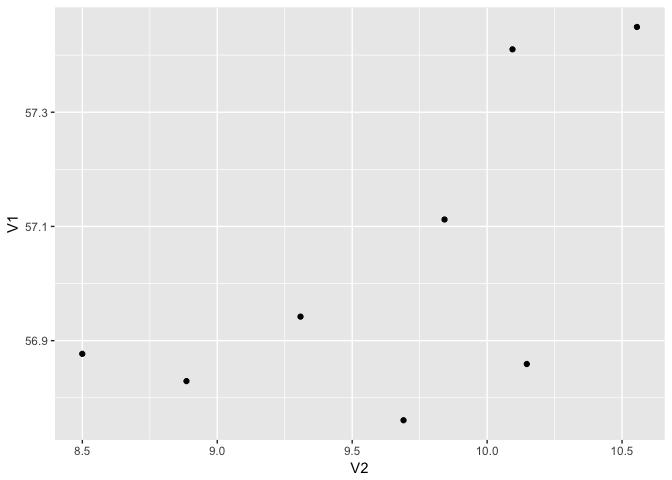
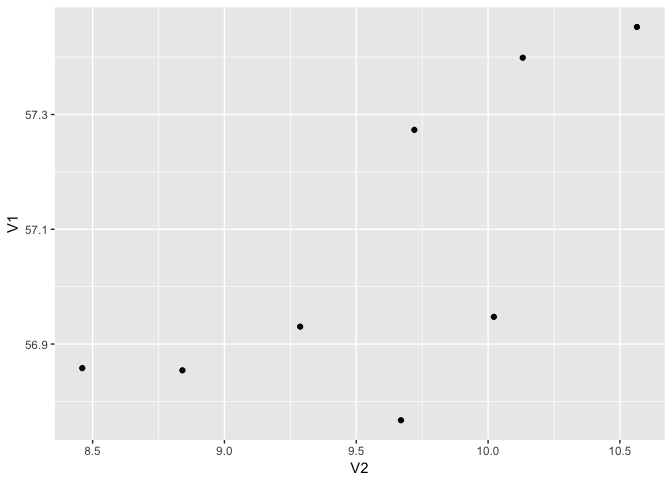
Atualizando Documentação

diff --git a/kmeans/scala-wrapper.md b/kmeans/scala-wrapper.md
@@ -4,18 +4,222 @@ João Antonio Ferreira
 15 de janeiro de 2017
 
 -   [R Markdown](#r-markdown)
--   [Preparação do ambiente](#preparacao-do-ambiente)
+-   [Gerando um Dataset no formato desejado](#gerando-um-dataset-no-formato-desejado)
+-   [Preparação do ambiente R](#preparacao-do-ambiente-r)
     -   [Lendo o Dataset](#lendo-o-dataset)
     -   [Investigando no grafico](#investigando-no-grafico)
     -   [Rodando o KMeans para k = 8](#rodando-o-kmeans-para-k-8)
+    -   [Código KMeans equivalente em Scala](#codigo-kmeans-equivalente-em-scala)
 
 R Markdown
 ----------
 
 Este é um documento R Markdown. Markdown é um formato simples para gerar documentos HTML, DOCX e PDF.
 
-Preparação do ambiente
-----------------------
+R Markdown é uma extensão para Markdown que acrescenta funcionalidade de execução de código R gerando saida Markdown que pode ser lida no Github.
+
+Gerando um Dataset no formato desejado
+--------------------------------------
+
+Inicialmente configuro o Environment para usar o spark-shell
+
+``` bash
+export  SPARK_MASTER_IP=127.0.0.1
+export  SPARK_LOCAL_IP=127.0.0.1
+spark-shell
+```
+
+Partindo do dataset original vamos inserir 130.299 registros com pelo menos um atributo null e gerar mais registros usando operação map do Dataset do Spark. O Dataset original é 3D\_spatial\_network.csv
+
+Fazendo os imports necessários.
+
+``` scala
+import collection.JavaConversions._
+import java.io.File
+import java.nio.file.Files
+import java.nio.file.Paths
+import java.util.Arrays
+import org.apache.spark.ml.clustering.KMeans
+import org.apache.spark.ml.feature.{VectorAssembler,StringIndexer,VectorIndexer,OneHotEncoder}
+import org.apache.spark.ml.linalg.Vectors
+import org.apache.spark.sql.Dataset
+import org.apache.spark.sql.Encoder
+import org.apache.spark.sql.Encoders
+import org.apache.spark.sql.Row
+import org.apache.spark.sql.SparkSession
+import org.apache.spark.sql.types._
+import org.apache.spark.sql.types.StructType
+import spark.implicits._
+```
+
+``` scala
+// utility function
+def deleteRecursively(file: File): Unit = {
+  if (file.isDirectory) {
+    file.listFiles.foreach(deleteRecursively)
+  }
+  if (file.exists && !file.delete)
+    throw new Exception(s"Unable to delete ${file.getAbsolutePath}")
+}
+
+val sparkSession = SparkSession.builder.
+    appName("spark session example").
+    getOrCreate()
+
+val df = sparkSession.read.
+          option("header","true").
+          option("inferSchema","true").
+          csv("3D_spatial_network.csv")
+
+val sortedSet = df.sort("id", "latitude", "longitude", "altitude").collect()
+// sortedSet é um Array[org.apache.spark.sql.Row]
+
+val cachedDF = df.cache()
+
+val fullRDD = sparkSession.sparkContext.parallelize(sortedSet)
+
+val dfSchema = df.schema
+
+// Criando classe para o Pattern ValueObject.
+// No caso dos parametros puderem ser nulos usamos Option[Tipo]
+case class RoadNet(id: Option[Integer], longitude: Option[Double],
+                   latitude: Option[Double], altitude: Option[Double])
+
+df.count()
+// res2: Long = 434874
+
+val fullDataframe = sparkSession.createDataFrame(fullRDD, dfSchema)
+val Array(pf1, pf2) = fullDataframe.randomSplit(Array(0.70, 0.30))
+pf2.count
+// res3: Long = 130299
+
+def returnDatasetWhichAllTuplesContainsOneAttributeNull(dsInput: Dataset[Row]) : Dataset[RoadNet] = {
+  val allTuplesContainsNull = pf2.map(row => {
+    val r = scala.util.Random
+    val index = r.nextInt(4)
+    def nullOneValue(i: Int): RoadNet = i match {
+      case 0 => RoadNet(None,
+          Option(row(1).asInstanceOf[Double]),
+          Option(row(2).asInstanceOf[Double]),
+          Option(row(3).asInstanceOf[Double])
+      )
+      case 1 => RoadNet(Option(row(0).asInstanceOf[Integer]),
+          None,
+          Option(row(2).asInstanceOf[Double]),
+          Option(row(3).asInstanceOf[Double])
+      )
+      case 2 => RoadNet(Option(row(0).asInstanceOf[Integer]),
+          Option(row(1).asInstanceOf[Double]),
+          None,
+          Option(row(3).asInstanceOf[Double])
+      )
+      case _ => RoadNet(Option(row(0).asInstanceOf[Integer]),
+          Option(row(1).asInstanceOf[Double]),
+          Option(row(2).asInstanceOf[Double]),
+          None
+      )
+    }
+    nullOneValue(index)
+  })
+  allTuplesContainsNull
+  // allTuplesContainsNull: org.apache.spark.sql.Dataset[RoadNet] = [id: int, longitude: double, latitude: double, altitude: double]
+}
+
+val dataSetWhichAllTuplesContainsNull = returnDatasetWhichAllTuplesContainsOneAttributeNull(pf2)
+dataSetWhichAllTuplesContainsNull.show
+dataSetWhichAllTuplesContainsNull.count()
+// Long = 130245
+
+val dfSchema = df.schema
+val Array(ps1, ps2) = smallDataframe.randomSplit(Array(0.80, 0.20))
+
+val myList: java.util.List[String] = Arrays.asList("hello", "world")
+val namesColl: java.util.Collection[String] = myList.toSeq
+sparkSession.sparkContext.parallelize(myList)
+val outputDir = "output"
+if (Files.exists(Paths.get(outputDir))) {
+  println("Diretório de saida já existe. Removendo diretório '" + outputDir + "'  ...")
+  deleteRecursively(new File(outputDir))
+}
+myUnion.toJavaRDD.saveAsTextFile(outputDir)
+// Gerando vários um único arquivo CSV no diretório /data/output-coalesce
+val outputDir = "/data/output-coalesce"
+if (Files.exists(Paths.get(outputDir))) {
+  println("Diretório de saida já existe. Removendo diretório '" + outputDir + "'  ...")
+  deleteRecursively(new File(outputDir))
+}
+myUnion.coalesce(1).write.format("com.databricks.spark.csv").option("header", "true").save(outputDir)
+// Aumentando o tamanho da saida
+
+def returnDatasetWhichRadomNoise(dsInput: Dataset[Row]) : Dataset[RoadNet] = {
+  val datasetWithNoise = dsInput.map(row => {
+    val r = scala.util.Random
+    val index = r.nextInt(99)
+    val signal: Int = if (index % 2 == 0) -1 else 1
+    var noise = signal * index * 1E-15
+    var drive = index % 3
+    def addNoise(i: Int): RoadNet = i match {
+      case 0 => RoadNet(
+          Option(row(0).asInstanceOf[Integer]),
+          Option(row(1).asInstanceOf[Double] + noise),
+          Option(row(2).asInstanceOf[Double]),
+          Option(row(3).asInstanceOf[Double])
+      )
+      case 1 => RoadNet(
+          Option(row(0).asInstanceOf[Integer]),
+          Option(row(1).asInstanceOf[Double]),
+          Option(row(2).asInstanceOf[Double] + noise),
+          Option(row(3).asInstanceOf[Double])
+      )
+      case 2 => RoadNet(
+          Option(row(0).asInstanceOf[Integer]),
+          Option(row(1).asInstanceOf[Double]),
+          Option(row(2).asInstanceOf[Double]),
+          Option(row(3).asInstanceOf[Double] + noise)
+      )
+    }
+    val ret = addNoise(drive)
+    ret
+  })
+  datasetWithNoise
+}
+
+returnDatasetWhichRadomNoise(smallDataframe).show()
+
+val outputDir = "/data/large-output-coalesce"
+if (Files.exists(Paths.get(outputDir))) {
+  println("Diretório de saida já existe. Removendo diretório '" + outputDir + "'  ...")
+  deleteRecursively(new File(outputDir))
+}
+
+val originalWithNoise = returnDatasetWhichRadomNoise(cachedDF)
+val finalUnion = myUnion.union(originalWithNoise.as[RoadNet])
+
+finalUnion.coalesce(1).write.format("com.databricks.spark.csv").option("header", "true").save(outputDir)
+val recQty = finalUnion.count
+
+println(s"Fazendo o Tidy de $recQty registros")
+val prepared = finalUnion.na.drop()
+val prepQty = prepared.count()
+println(s"Sobraram $prepQty registros para o KMeans")
+
+val outputDir = "/data/large-output-prepared"
+if (Files.exists(Paths.get(outputDir))) {
+  println("Diretório de saida já existe. Removendo diretório '" + outputDir + "'  ...")
+  deleteRecursively(new File(outputDir))
+}
+prepared.coalesce(1).write.format("com.databricks.spark.csv").option("header", "true").save(outputDir)
+val goodRecQty = prepared.count
+```
+
+Ao final renomeie o arquivo gerado para `/data/prepared-3D_spatial_network.csv`.
+
+``` bash
+mv /data/large-output-prepared/*.csv /data/prepared-3D_spatial_network.csv
+```
+
+Preparação do ambiente R
+------------------------
 
 Preparando o ambiente para rodar o KMeans da implementação R com o mesmo dataset da implementação Spark
 
@@ -56,27 +260,27 @@ cl_factor = factor(cl$cluster)
 cl
 ```
 
-    ## K-means clustering with 8 clusters of sizes 84660, 90422, 86264, 127728, 88248, 141874, 78036, 172526
+    ## K-means clustering with 8 clusters of sizes 122278, 136736, 89258, 81062, 88908, 69596, 196912, 85008
     ## 
     ## Cluster means:
     ##       [,1]      [,2]
-    ## 1 56.87691  8.499683
-    ## 2 56.94205  9.308417
-    ## 3 56.76062  9.690166
-    ## 4 57.44926 10.555215
-    ## 5 56.85911 10.146987
-    ## 6 57.41014 10.093987
-    ## 7 56.82915  8.885834
-    ## 8 57.11217  9.842111
+    ## 1 57.45257 10.564718
+    ## 2 57.39898 10.131487
+    ## 3 56.93032  9.287195
+    ## 4 57.27323  9.720362
+    ## 5 56.85422  8.840570
+    ## 6 56.85808  8.460687
+    ## 7 56.94744 10.021957
+    ## 8 56.76721  9.669532
     ## 
     ## Clustering vector:
-    ##  [1] 2 2 2 2 2 2 2 2 2 2 2 2 2 2 2 2 2 2 2 1 1 1 1 1 1 1 1 1 1 1 1 1 1 1 1
-    ## [36] 1 1 1 1 1 1 1 1 1 1 1 1 1 1 1
+    ##  [1] 3 3 3 3 3 3 3 3 3 3 3 3 3 3 3 3 3 3 3 6 6 6 6 6 6 6 6 6 6 6 6 6 6 6 6
+    ## [36] 6 6 6 6 6 6 6 6 6 6 6 6 6 6 6
     ##  [ reached getOption("max.print") -- omitted 869708 entries ]
     ## 
     ## Within cluster sum of squares by cluster:
-    ## [1] 3356.690 3502.066 2718.040 8757.847 3296.953 5482.231 2908.934 5640.036
-    ##  (between_SS / total_SS =  91.4 %)
+    ## [1] 8383.846 4989.938 3463.816 2169.264 3457.832 2444.448 7633.675 2705.772
+    ##  (between_SS / total_SS =  91.5 %)
     ## 
     ## Available components:
     ## 
@@ -93,3 +297,43 @@ qplot(V2, V1, data = centers)
 ```
 
 ![](scala-wrapper_files/figure-markdown_github/unnamed-chunk-6-1.png)
+
+### Código KMeans equivalente em Scala
+
+``` scala
+// Create a new VectorAssembler object called assembler for the feature
+// columns as the input. Set the output column to be called features
+
+val assembler = new VectorAssembler().
+      setInputCols(Array("latitude", "longitude")).
+      setOutputCol("features")
+
+// Use the assembler object to transform the feature_data
+// Call this new data training_data
+val training_data = assembler.transform(prepared).select("features")
+training_data.schema
+
+val inicio = new java.util.Date()
+
+val kmeans = new KMeans().setK(8).setSeed(314L).setMaxIter(30)
+
+// Fit that model to the training_data
+// O processo de fit demora mais de dois minutos para 900.000 registros.
+val model = kmeans.fit(training_data)
+println("Duração: " + new java.util.Date() + " - " + inicio)
+
+// Evaluate clustering by computing Within Set Sum of Squared Errors.
+val WSSSE = model.computeCost(training_data)
+println(s"Within Set Sum of Squared Errors = $WSSSE")
+
+// Shows the result.
+println("Cluster Centers: ")
+import scala.math.Ordering
+// model.clusterCenters.sorted(Ordering[Double]).foreach(println)
+val clustersId = model.summary.predictions.select(s"prediction").distinct().sort("prediction")
+clustersId.show
+val predictions = model.summary.predictions.sort("prediction")
+predictions.show
+model.clusterCenters.foreach(println)
+// Falta determinar quais centros são de quais clusters para correlacionar os centros com as predictions
+```
